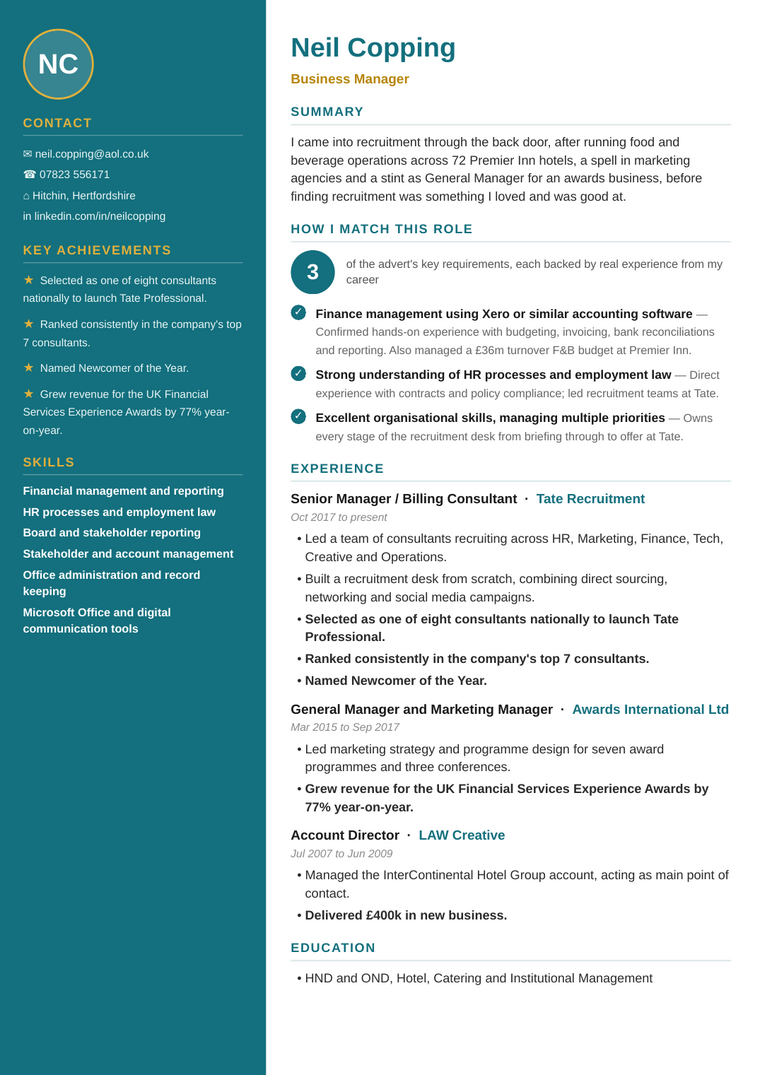
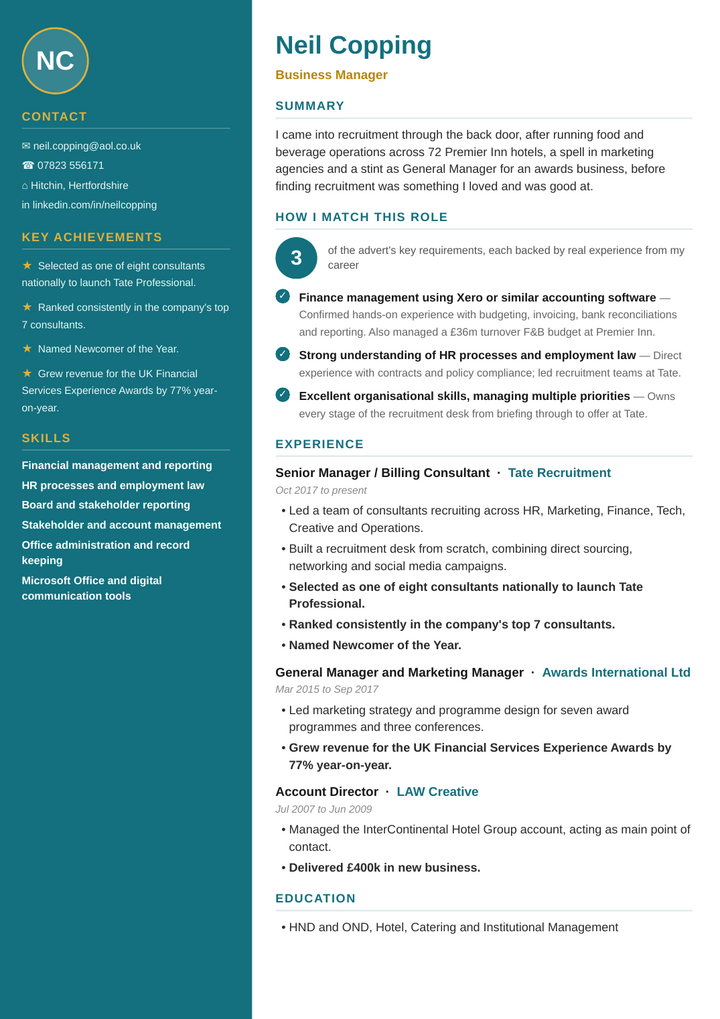
image update

diff --git a/public/css/styles.css b/public/css/styles.css
@@ -69,17 +69,18 @@ section:nth-of-type(even){background:var(--navy-deep)}
 .faq h3{font-family:var(--font-label);text-transform:none;font-size:19px;font-weight:600;margin:1.2em 0 .2em;color:var(--cream)}
 .price-flag{display:inline-block;background:var(--gold);color:var(--ink);font-family:var(--font-label);text-transform:uppercase;letter-spacing:.05em;font-weight:600;padding:5px 12px;font-size:15px}
 
-/* design vertical carousel (small, named cards on brand-colour backdrops) */
-.vcar{height:430px;max-width:380px;margin:22px auto 0;overflow:hidden;position:relative;
-  -webkit-mask-image:linear-gradient(to bottom,transparent,#000 11%,#000 89%,transparent);
-  mask-image:linear-gradient(to bottom,transparent,#000 11%,#000 89%,transparent)}
-.vtrack{display:flex;flex-direction:column;animation:vscroll 34s linear infinite;will-change:transform}
+/* design horizontal carousel (auto-scrolling, named cards on brand backdrops) */
+.vcar{overflow:hidden;position:relative;margin-top:22px;
+  -webkit-mask-image:linear-gradient(to right,transparent,#000 5%,#000 95%,transparent);
+  mask-image:linear-gradient(to right,transparent,#000 5%,#000 95%,transparent)}
+.vtrack{display:flex;flex-direction:row;width:max-content;animation:hscroll 45s linear infinite;will-change:transform}
 .vcar:hover .vtrack{animation-play-state:paused}
-@keyframes vscroll{from{transform:translateY(0)}to{transform:translateY(-50%)}}
-.vcard{display:flex;align-items:center;gap:15px;padding:12px 15px;border-radius:12px;margin-bottom:14px}
-.vcard img{width:92px;height:auto;border-radius:3px;box-shadow:0 5px 16px rgba(0,0,0,.4);background:#fff;flex:0 0 auto}
-.vcard .nm{font-family:var(--font-label);text-transform:uppercase;letter-spacing:.05em;font-weight:600;font-size:15px;line-height:1.15}
-.vcard .tag{display:block;font-family:var(--font-label);text-transform:uppercase;letter-spacing:.05em;font-size:11px;opacity:.85;margin-top:3px}
+@keyframes hscroll{from{transform:translateX(0)}to{transform:translateX(-50%)}}
+.vcard{flex:0 0 auto;width:158px;margin-right:16px;padding:12px;border-radius:12px;text-align:center}
+.vcard img{width:100%;height:auto;border-radius:3px;box-shadow:0 5px 16px rgba(0,0,0,.4);background:#fff;display:block}
+.vcard .nm{display:block;font-family:var(--font-label);text-transform:uppercase;letter-spacing:.05em;font-weight:600;font-size:13px;line-height:1.15;margin-top:10px}
+.vcard .tag{display:block;font-family:var(--font-label);text-transform:uppercase;letter-spacing:.05em;font-size:10px;opacity:.85;margin-top:3px}
+@media(prefers-reduced-motion:reduce){.vtrack{animation:none}.vcar{overflow-x:auto}}
 
 /* before / after CV images (small, clearly labelled) */
 .bagrid{display:grid;gap:26px;margin-top:22px}
@@ -89,13 +90,15 @@ section:nth-of-type(even){background:var(--navy-deep)}
 .bafig.before .lbl{color:var(--cream-muted)}
 .bafig.after .lbl{color:var(--gold)}
 .bafig .cap{font-size:13px;margin-top:8px}
-.bafig img{width:100%;max-width:290px;height:auto;display:block;margin:10px auto 0;background:#fff;border:1px solid var(--line);box-shadow:0 10px 28px rgba(0,0,0,.4)}
+.bafig img{width:100%;max-width:230px;height:auto;display:block;margin:10px auto 0;background:#fff;border:1px solid var(--line);box-shadow:0 10px 28px rgba(0,0,0,.4)}
 .bafig.after img{border:3px solid var(--gold)}
 
-/* founder block - circular photo left, words right */
-.founder{display:flex;gap:30px;align-items:center;margin-top:22px;flex-wrap:wrap}
-.founder .pic{width:190px;height:190px;border-radius:50%;object-fit:cover;object-position:50% 24%;
-  border:4px solid var(--gold);filter:grayscale(1) contrast(1.03);flex:0 0 auto}
+/* founder block - orange roundel photo on the left, words on the right */
+.founder{display:flex;gap:34px;align-items:center;margin-top:22px;flex-wrap:wrap}
+.founder .roundel{width:230px;height:230px;border-radius:50%;background:var(--orange);
+  display:flex;align-items:center;justify-content:center;flex:0 0 auto;box-shadow:0 12px 32px rgba(0,0,0,.4)}
+.founder .roundel img{width:196px;height:196px;border-radius:50%;object-fit:cover;object-position:50% 40%;
+  border:3px solid var(--cream);filter:grayscale(1) contrast(1.03)}
 .founder .txt{flex:1;min-width:280px}
 .founder p{max-width:44em}
 .founder .sig{font-family:var(--font-display);text-transform:uppercase;color:var(--gold);font-size:18px;margin-top:12px}

diff --git a/public/index.html b/public/index.html
@@ -53,7 +53,7 @@
   var t=document.getElementById('vtrack'); if(!t) return;
   function card(d){return '<div class="vcard" style="background:'+d.bg+';color:'+d.fg+'">'+
     '<img src="/img/thumbs/'+d.id+'.png" alt="'+d.name+' CV design" loading="lazy">'+
-    '<div><span class="nm">'+d.name+'</span><span class="tag">'+d.tag+'</span></div></div>';}
+    '<span class="nm">'+d.name+'</span><span class="tag">'+d.tag+'</span></div>';}
   var html=items.map(card).join('');
   t.innerHTML=html+html; // duplicated for a seamless loop
 })();
@@ -178,7 +178,7 @@
   <div class="eyebrow">From the founder</div>
   <h2>Why I built this</h2>
   <div class="founder">
-    <img class="pic" src="/img/founder.jpg" alt="Neil Copping, founder of The Com'mon People">
+    <div class="roundel"><img class="pic" src="/img/founder.jpg" alt="Neil Copping, founder of The Com'mon People"></div>
     <div class="txt">
       <p class="lead" style="max-width:none">After nine years in recruitment, I found myself on the other side of the desk, job-hunting like everyone else.</p>
       <p>So I built myself two small tools. One to rewrite my CV for the exact role I was going for, digging out the real things I'd done that made me right for it. And one to get me ready for the interview. A week later, I'd landed the job.</p>
